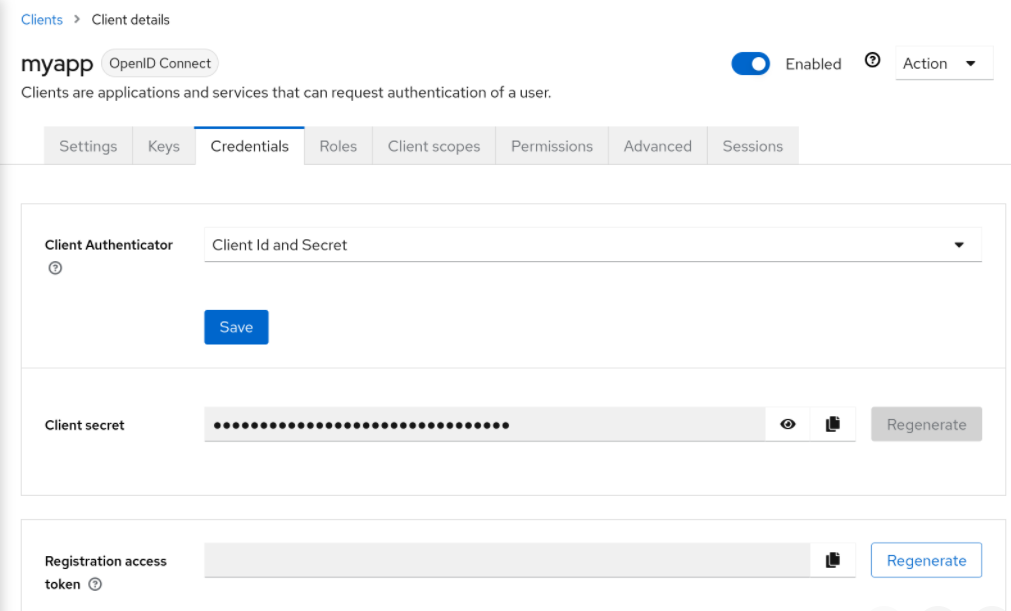
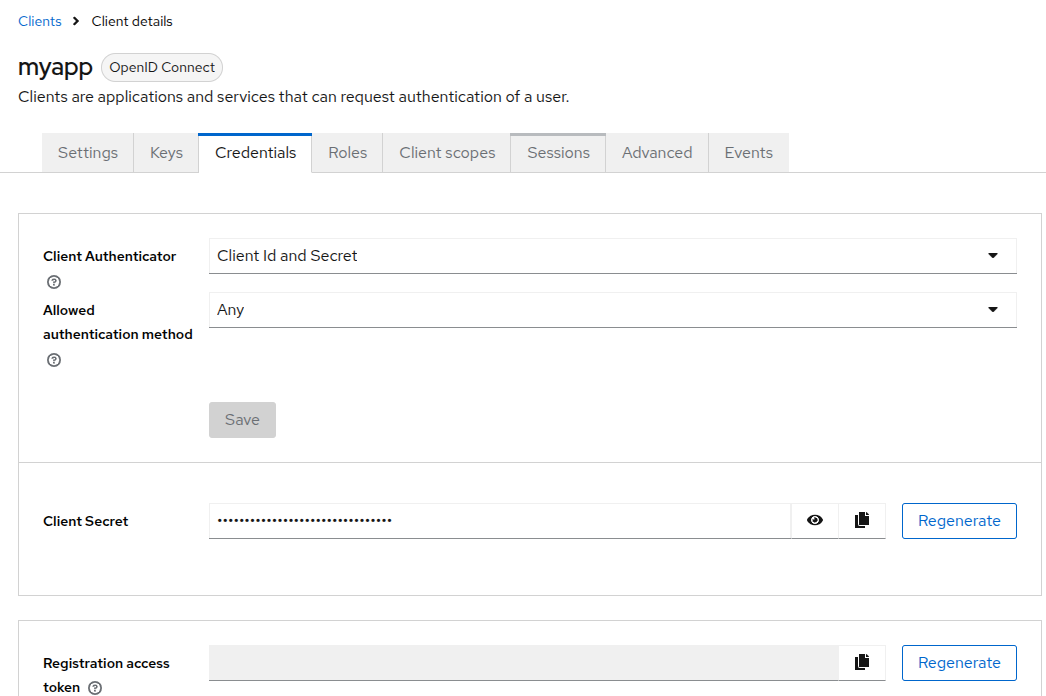
DCR endpoint ignores client's requested token_endpoint_auth_method in case it is client_secret_post closes #44403

diff --git a/js/apps/admin-ui/src/clients/credentials/Credentials.tsx b/js/apps/admin-ui/src/clients/credentials/Credentials.tsx
@@ -173,6 +173,25 @@ export const Credentials = ({ client, save, refresh }: CredentialsProps) => {
                 value: displayName || id!,
               }))}
             />
+            {clientAuthenticatorType === "client-secret" && (
+              <SelectControl
+                name={convertAttributeNameToForm<FormFields>(
+                  "attributes.client.secret.authentication.allowed.method",
+                )}
+                label={t("clientSecretAuthenticationAllowedMethod")}
+                labelIcon={t("clientSecretAuthenticationAllowedMethodHelp")}
+                controller={{
+                  defaultValue: "",
+                }}
+                isScrollable
+                maxMenuHeight="200px"
+                options={[
+                  { key: "", value: t("any") },
+                  { key: "client_secret_basic", value: "client_secret_basic" },
+                  { key: "client_secret_post", value: "client_secret_post" },
+                ]}
+              />
+            )}
             {(clientAuthenticatorType === "client-jwt" ||
               clientAuthenticatorType === "client-secret-jwt") && (
               <SignedJWT clientAuthenticatorType={clientAuthenticatorType} />

diff --git a/testsuite/integration-arquillian/tests/base/src/test/java/org/keycloak/testsuite/oauth/ClientAuthPostMethodTest.java b/testsuite/integration-arquillian/tests/base/src/test/java/org/keycloak/testsuite/oauth/ClientAuthPostMethodTest.java
@@ -23,13 +23,18 @@ import java.util.LinkedList;
 import java.util.List;
 
 import org.keycloak.OAuth2Constants;
+import org.keycloak.admin.client.resource.ClientResource;
 import org.keycloak.events.Details;
+import org.keycloak.protocol.oidc.OIDCClientSecretConfigWrapper;
+import org.keycloak.protocol.oidc.OIDCLoginProtocol;
 import org.keycloak.representations.AccessToken;
+import org.keycloak.representations.idm.ClientRepresentation;
 import org.keycloak.representations.idm.EventRepresentation;
 import org.keycloak.representations.idm.RealmRepresentation;
 import org.keycloak.testsuite.AbstractAdminTest;
 import org.keycloak.testsuite.AbstractKeycloakTest;
 import org.keycloak.testsuite.AssertEvents;
+import org.keycloak.testsuite.admin.ApiUtil;
 import org.keycloak.testsuite.util.oauth.AccessTokenResponse;
 
 import org.apache.http.NameValuePair;
@@ -46,6 +51,7 @@ import static org.hamcrest.Matchers.allOf;
 import static org.hamcrest.Matchers.greaterThanOrEqualTo;
 import static org.hamcrest.Matchers.lessThanOrEqualTo;
 import static org.junit.Assert.assertEquals;
+import static org.junit.Assert.assertNull;
 
 /**
  * Test for "client_secret_post" client authentication (clientID + clientSecret sent in the POST body instead of in "Authorization: Basic" header)
@@ -88,6 +94,64 @@ public class ClientAuthPostMethodTest extends AbstractKeycloakTest {
         assertEquals(token.getId(), event.getDetails().get(Details.TOKEN_ID));
         assertEquals(oauth.parseRefreshToken(response.getRefreshToken()).getId(), event.getDetails().get(Details.REFRESH_TOKEN_ID));
         assertEquals(sessionId, token.getSessionState());
+    }
+
+    @Test
+    public void testBasicAuthenticationNotAllowedWhenPostRequested() {
+        // Update client to request client_secret_post client authentication method
+        ClientResource client = ApiUtil.findClientByClientId(adminClient.realm("test"), oauth.getClientId());
+        ClientRepresentation clientRep = client.toRepresentation();
+        OIDCClientSecretConfigWrapper.fromClientRepresentation(clientRep).setClientSecretAuthenticationAllowedMethod(OIDCLoginProtocol.CLIENT_SECRET_POST);
+        client.update(clientRep);
+
+        try {
+            // client_secret_basic should not work
+            oauth.doLogin("test-user@localhost", "password");
+            String code = oauth.parseLoginResponse().getCode();
+            AccessTokenResponse errorResponse = oauth.doAccessTokenRequest(code);
+            assertNull(errorResponse.getAccessToken());
+            assertEquals("Invalid method used to get client secret. Client requires method 'client_secret_post' to obtain client secret from the request", errorResponse.getErrorDescription());
+
+            // Try with client_secret_post. Should work
+            oauth.openLoginForm();
+            code = oauth.parseLoginResponse().getCode();
+
+            AccessTokenResponse response = doAccessTokenRequestPostAuth(code, "password");
+            assertEquals(200, response.getStatusCode());
+        } finally {
+            // Revert
+            OIDCClientSecretConfigWrapper.fromClientRepresentation(clientRep).setClientSecretAuthenticationAllowedMethod(null);
+            client.update(clientRep);
+        }
+    }
+
+    @Test
+    public void testPostAuthenticationNotAllowedWhenBasicRequested() {
+        // Update client to request client_secret_basic client authentication method
+        ClientResource client = ApiUtil.findClientByClientId(adminClient.realm("test"), oauth.getClientId());
+        ClientRepresentation clientRep = client.toRepresentation();
+        OIDCClientSecretConfigWrapper.fromClientRepresentation(clientRep).setClientSecretAuthenticationAllowedMethod(OIDCLoginProtocol.CLIENT_SECRET_BASIC);
+        client.update(clientRep);
+
+        try {
+            // client_secret_post should not work
+            oauth.doLogin("test-user@localhost", "password");
+            String code = oauth.parseLoginResponse().getCode();
+            AccessTokenResponse errorResponse = doAccessTokenRequestPostAuth(code, "password");
+            assertNull(errorResponse.getAccessToken());
+            assertEquals("Invalid method used to get client secret. Client requires method 'client_secret_basic' to obtain client secret from the request", errorResponse.getErrorDescription());
+
+            // Try with client_secret_basic. Should work
+            oauth.openLoginForm();
+            code = oauth.parseLoginResponse().getCode();
+
+            AccessTokenResponse response = oauth.doAccessTokenRequest(code);
+            assertEquals(200, response.getStatusCode());
+        } finally {
+            // Revert
+            OIDCClientSecretConfigWrapper.fromClientRepresentation(clientRep).setClientSecretAuthenticationAllowedMethod(null);
+            client.update(clientRep);
+        }
     }
 
 

diff --git a/services/src/main/java/org/keycloak/authentication/authenticators/client/ClientIdAndSecretAuthenticator.java b/services/src/main/java/org/keycloak/authentication/authenticators/client/ClientIdAndSecretAuthenticator.java
@@ -38,8 +38,10 @@ import org.keycloak.models.ClientModel;
 import org.keycloak.protocol.oidc.OIDCClientSecretConfigWrapper;
 import org.keycloak.protocol.oidc.OIDCLoginProtocol;
 import org.keycloak.provider.ProviderConfigProperty;
+import org.keycloak.representations.idm.ClientRepresentation;
 import org.keycloak.representations.idm.CredentialRepresentation;
 import org.keycloak.util.BasicAuthHelper;
+import org.keycloak.utils.StringUtil;
 
 /**
  * Validates client based on "client_id" and "client_secret" sent either in request parameters or in "Authorization: Basic" header .
@@ -64,11 +66,14 @@ public class ClientIdAndSecretAuthenticator extends AbstractClientAuthenticator 
 
         MultivaluedMap<String, String> formData = hasFormData ? context.getHttpRequest().getDecodedFormParameters() : null;
 
+        String clientSecretRetrievalUsedMethod = null; // Tracks how was client_secret obtained
+
         if (authorizationHeader != null) {
             String[] usernameSecret = BasicAuthHelper.RFC6749.parseHeader(authorizationHeader);
             if (usernameSecret != null) {
                 client_id = usernameSecret[0];
                 clientSecret = usernameSecret[1];
+                clientSecretRetrievalUsedMethod = OIDCLoginProtocol.CLIENT_SECRET_BASIC;
             } else {
 
                 // Don't send 401 if client_id parameter was sent in request. For example IE may automatically send "Authorization: Negotiate" in XHR requests even for public clients
@@ -88,6 +93,7 @@ public class ClientIdAndSecretAuthenticator extends AbstractClientAuthenticator 
             }
             if (formData.containsKey(OAuth2Constants.CLIENT_SECRET)) {
                 clientSecret = formData.getFirst(OAuth2Constants.CLIENT_SECRET);
+                clientSecretRetrievalUsedMethod = OIDCLoginProtocol.CLIENT_SECRET_POST;
             }
         }
 
@@ -134,6 +140,14 @@ public class ClientIdAndSecretAuthenticator extends AbstractClientAuthenticator 
         }
 
         OIDCClientSecretConfigWrapper wrapper = OIDCClientSecretConfigWrapper.fromClientModel(client);
+
+        String clientSecretAllowedMethod = wrapper.getClientSecretAuthenticationAllowedMethod();
+        if (StringUtil.isNotBlank(clientSecretAllowedMethod) && !clientSecretAllowedMethod.equals(clientSecretRetrievalUsedMethod)) {
+            Response challengeResponse = ClientAuthUtil.errorResponse(Response.Status.UNAUTHORIZED.getStatusCode(), "unauthorized_client", "Invalid method used to get client secret. Client requires method '"
+                    + clientSecretAllowedMethod + "' to obtain client secret from the request");
+            context.failure(AuthenticationFlowError.INVALID_CLIENT_CREDENTIALS, challengeResponse);
+            return;
+        }
 
         if (!client.validateSecret(clientSecret)) {
             if (!wrapper.validateRotatedSecret(clientSecret)){
@@ -202,6 +216,20 @@ public class ClientIdAndSecretAuthenticator extends AbstractClientAuthenticator 
             return results;
         } else {
             return Collections.emptySet();
+        }
+    }
+
+    @Override
+    public String getProtocolAuthenticatorMethod(ClientRepresentation client) {
+        String clientSecretAllowedMethod = OIDCClientSecretConfigWrapper.fromClientRepresentation(client).getClientSecretAuthenticationAllowedMethod();
+        return clientSecretAllowedMethod == null ? super.getProtocolAuthenticatorMethod(client) : clientSecretAllowedMethod;
+    }
+
+    @Override
+    public void setClientAuthenticationMethod(ClientRepresentation client, String protocolAuthMethod) {
+        client.setClientAuthenticatorType(getId());
+        if (protocolAuthMethod != null) {
+            OIDCClientSecretConfigWrapper.fromClientRepresentation(client).setClientSecretAuthenticationAllowedMethod(protocolAuthMethod);
         }
     }
 

diff --git a/testsuite/integration-arquillian/tests/base/src/test/java/org/keycloak/testsuite/client/OIDCClientRegistrationTest.java b/testsuite/integration-arquillian/tests/base/src/test/java/org/keycloak/testsuite/client/OIDCClientRegistrationTest.java
@@ -43,6 +43,7 @@ import org.keycloak.jose.jwe.JWEConstants;
 import org.keycloak.models.CibaConfig;
 import org.keycloak.models.Constants;
 import org.keycloak.protocol.oidc.OIDCAdvancedConfigWrapper;
+import org.keycloak.protocol.oidc.OIDCClientSecretConfigWrapper;
 import org.keycloak.protocol.oidc.OIDCLoginProtocol;
 import org.keycloak.protocol.oidc.utils.OIDCResponseType;
 import org.keycloak.representations.idm.ClientInitialAccessCreatePresentation;
@@ -345,6 +346,46 @@ public class OIDCClientRegistrationTest extends AbstractClientRegistrationTest {
         response.setTokenEndpointAuthMethod(OIDCLoginProtocol.TLS_CLIENT_AUTH);
         OIDCClientRepresentation updated = reg.oidc().update(response);
         Assert.assertEquals("tls_client_auth", updated.getTokenEndpointAuthMethod());
+        Assert.assertNull(updated.getClientSecret());
+        Assert.assertNull(updated.getClientSecretExpiresAt());
+    }
+
+    @Test
+    public void testClientSecretClientAuthMethod() throws ClientRegistrationException {
+        // Test that client_secret_post is properly stored and returned
+        OIDCClientRepresentation clientRep = createRep();
+        clientRep.setTokenEndpointAuthMethod(OIDCLoginProtocol.CLIENT_SECRET_POST);
+
+        OIDCClientRepresentation response = reg.oidc().create(clientRep);
+        Assert.assertEquals(OIDCLoginProtocol.CLIENT_SECRET_POST, response.getTokenEndpointAuthMethod());
+        Assert.assertNotNull(response.getClientSecret());
+
+        ClientRepresentation kcClientRep = getKeycloakClient(response.getClientId());
+        Assert.assertFalse(kcClientRep.isPublicClient());
+        Assert.assertNotNull(kcClientRep.getSecret());
+        Assert.assertEquals(OIDCLoginProtocol.CLIENT_SECRET_POST, OIDCClientSecretConfigWrapper.fromClientRepresentation(kcClientRep).getClientSecretAuthenticationAllowedMethod());
+
+        // Verify that retrieving the client returns client_secret_post
+        reg.auth(Auth.token(response));
+        OIDCClientRepresentation retrieved = reg.oidc().get(response.getClientId());
+        Assert.assertEquals(OIDCLoginProtocol.CLIENT_SECRET_POST, retrieved.getTokenEndpointAuthMethod());
+
+        // Update to use client_secret_basic and test it
+        reg.auth(Auth.token(response));
+        response.setTokenEndpointAuthMethod(OIDCLoginProtocol.CLIENT_SECRET_BASIC);
+        OIDCClientRepresentation updated = reg.oidc().update(response);
+        Assert.assertEquals(OIDCLoginProtocol.CLIENT_SECRET_BASIC, updated.getTokenEndpointAuthMethod());
+
+        kcClientRep = getKeycloakClient(response.getClientId());
+        Assert.assertFalse(kcClientRep.isPublicClient());
+        Assert.assertNotNull(kcClientRep.getSecret());
+        Assert.assertEquals(OIDCLoginProtocol.CLIENT_SECRET_BASIC, OIDCClientSecretConfigWrapper.fromClientRepresentation(kcClientRep).getClientSecretAuthenticationAllowedMethod());
+
+        // Update to use different method (tls_client_auth)
+        reg.auth(Auth.token(updated));
+        updated.setTokenEndpointAuthMethod(OIDCLoginProtocol.TLS_CLIENT_AUTH);
+        updated = reg.oidc().update(updated);
+        Assert.assertEquals(OIDCLoginProtocol.TLS_CLIENT_AUTH, updated.getTokenEndpointAuthMethod());
         Assert.assertNull(updated.getClientSecret());
         Assert.assertNull(updated.getClientSecretExpiresAt());
     }

diff --git a/server-spi-private/src/main/java/org/keycloak/authentication/ClientAuthenticatorFactory.java b/server-spi-private/src/main/java/org/keycloak/authentication/ClientAuthenticatorFactory.java
@@ -21,8 +21,10 @@ import java.util.Map;
 import java.util.Set;
 
 import org.keycloak.models.ClientModel;
+import org.keycloak.models.Constants;
 import org.keycloak.provider.ConfiguredPerClientProvider;
 import org.keycloak.provider.ProviderFactory;
+import org.keycloak.representations.idm.ClientRepresentation;
 
 /**
  * Factory for creating ClientAuthenticator instances.  This is a singleton and created when Keycloak boots.
@@ -59,6 +61,30 @@ public interface ClientAuthenticatorFactory extends ProviderFactory<ClientAuthen
      * @return name of supported client authenticator methods in the protocol specific "language"
      */
     Set<String> getProtocolAuthenticatorMethods(String loginProtocol);
+
+    /**
+     * Get protocol authentication method, which is set on the specified client.
+     *
+     * @param client client whose authentication method will be returned
+     * @return Client authentication method as specified in the related protocol specification.
+     *         For example "client_secret_basic", "client_secret_post" or "private_key_jwt" might be used as returned values.
+     */
+    default String getProtocolAuthenticatorMethod(ClientRepresentation client) {
+        String loginProtocol = client.getProtocol() == null ? Constants.OIDC_PROTOCOL : client.getProtocol();
+        Set<String> protocolAuthMethods = getProtocolAuthenticatorMethods(loginProtocol);
+        return protocolAuthMethods == null || protocolAuthMethods.isEmpty() ? null : protocolAuthMethods.iterator().next();
+    }
+
+    /**
+     * Set specified client authentication method to the specified client
+     *
+     * @param client client to update
+     * @param protocolAuthMethod Client authentication method as specified in the related protocol specification.
+     *                           For example "client_secret_basic", "client_secret_post" or "private_key_jwt" might be used as values of this parameter.
+     */
+    default void setClientAuthenticationMethod(ClientRepresentation client, String protocolAuthMethod) {
+        client.setClientAuthenticatorType(getId());
+    }
 
     /**
      * Is this authenticator supports client secret?

diff --git a/services/src/main/java/org/keycloak/services/clientregistration/oidc/DescriptionConverter.java b/services/src/main/java/org/keycloak/services/clientregistration/oidc/DescriptionConverter.java
@@ -27,7 +27,6 @@ import java.util.HashMap;
 import java.util.List;
 import java.util.Map;
 import java.util.Optional;
-import java.util.Set;
 import java.util.stream.Collectors;
 import java.util.stream.Stream;
 
@@ -152,7 +151,7 @@ public class DescriptionConverter {
             if (clientAuthFactory == null) {
                 throw new ClientRegistrationException("Not found clientAuthenticator for requested token_endpoint_auth_method");
             }
-            client.setClientAuthenticatorType(clientAuthFactory.getId());
+            clientAuthFactory.setClientAuthenticationMethod(client, authMethod);
         }
 
         boolean publicKeySet = setPublicKey(clientOIDC, client);
@@ -357,9 +356,9 @@ public class DescriptionConverter {
             response.setTokenEndpointAuthMethod("none");
         } else {
             ClientAuthenticatorFactory clientAuth = (ClientAuthenticatorFactory) session.getKeycloakSessionFactory().getProviderFactory(ClientAuthenticator.class, client.getClientAuthenticatorType());
-            Set<String> oidcClientAuthMethods = clientAuth.getProtocolAuthenticatorMethods(OIDCLoginProtocol.LOGIN_PROTOCOL);
-            if (oidcClientAuthMethods != null && !oidcClientAuthMethods.isEmpty()) {
-                response.setTokenEndpointAuthMethod(oidcClientAuthMethods.iterator().next());
+            String oidcClientAuthMethod = clientAuth.getProtocolAuthenticatorMethod(client);
+            if (oidcClientAuthMethod != null) {
+                response.setTokenEndpointAuthMethod(oidcClientAuthMethod);
             }
 
             if (clientAuth.supportsSecret()) {

diff --git a/services/src/main/java/org/keycloak/protocol/oidc/OIDCClientSecretConfigWrapper.java b/services/src/main/java/org/keycloak/protocol/oidc/OIDCClientSecretConfigWrapper.java
@@ -20,6 +20,7 @@ import com.fasterxml.jackson.databind.ObjectMapper;
 import static org.keycloak.models.ClientSecretConstants.CLIENT_ROTATED_SECRET;
 import static org.keycloak.models.ClientSecretConstants.CLIENT_ROTATED_SECRET_CREATION_TIME;
 import static org.keycloak.models.ClientSecretConstants.CLIENT_ROTATED_SECRET_EXPIRATION_TIME;
+import static org.keycloak.models.ClientSecretConstants.CLIENT_SECRET_AUTHENTICATION_ALLOWED_METHOD;
 import static org.keycloak.models.ClientSecretConstants.CLIENT_SECRET_CREATION_TIME;
 import static org.keycloak.models.ClientSecretConstants.CLIENT_SECRET_EXPIRATION;
 import static org.keycloak.models.ClientSecretConstants.CLIENT_SECRET_REMAINING_EXPIRATION_TIME;
@@ -63,6 +64,14 @@ public class OIDCClientSecretConfigWrapper extends AbstractClientConfigWrapper {
         } else {
             return clientRep.getName();
         }
+    }
+
+    public String getClientSecretAuthenticationAllowedMethod() {
+        return getAttribute(CLIENT_SECRET_AUTHENTICATION_ALLOWED_METHOD);
+    }
+
+    public void setClientSecretAuthenticationAllowedMethod(String clientSecretAuthenticationAllowedMethod) {
+        setAttribute(CLIENT_SECRET_AUTHENTICATION_ALLOWED_METHOD, clientSecretAuthenticationAllowedMethod);
     }
 
     public void removeClientSecretRotationInfo() {

diff --git a/server-spi-private/src/main/java/org/keycloak/models/ClientSecretConstants.java b/server-spi-private/src/main/java/org/keycloak/models/ClientSecretConstants.java
@@ -14,4 +14,10 @@ public class ClientSecretConstants {
     public static final String CLIENT_ROTATED_SECRET_EXPIRATION_TIME = "client.secret.rotated.expiration.time";
     public static final String CLIENT_SECRET_REMAINING_EXPIRATION_TIME = "client.secret.remaining.expiration.time";
 
+    /**
+     * Attribute on the client, which specifies if client authentication is limited only to "client_secret_basic" (HTTP Basic authentication) or "client_secret_post" (Client
+     * secret sent in the request parameters). If not filled, both methods are allowed
+     */
+    public static final String CLIENT_SECRET_AUTHENTICATION_ALLOWED_METHOD = "client.secret.authentication.allowed.method";
+
 }
